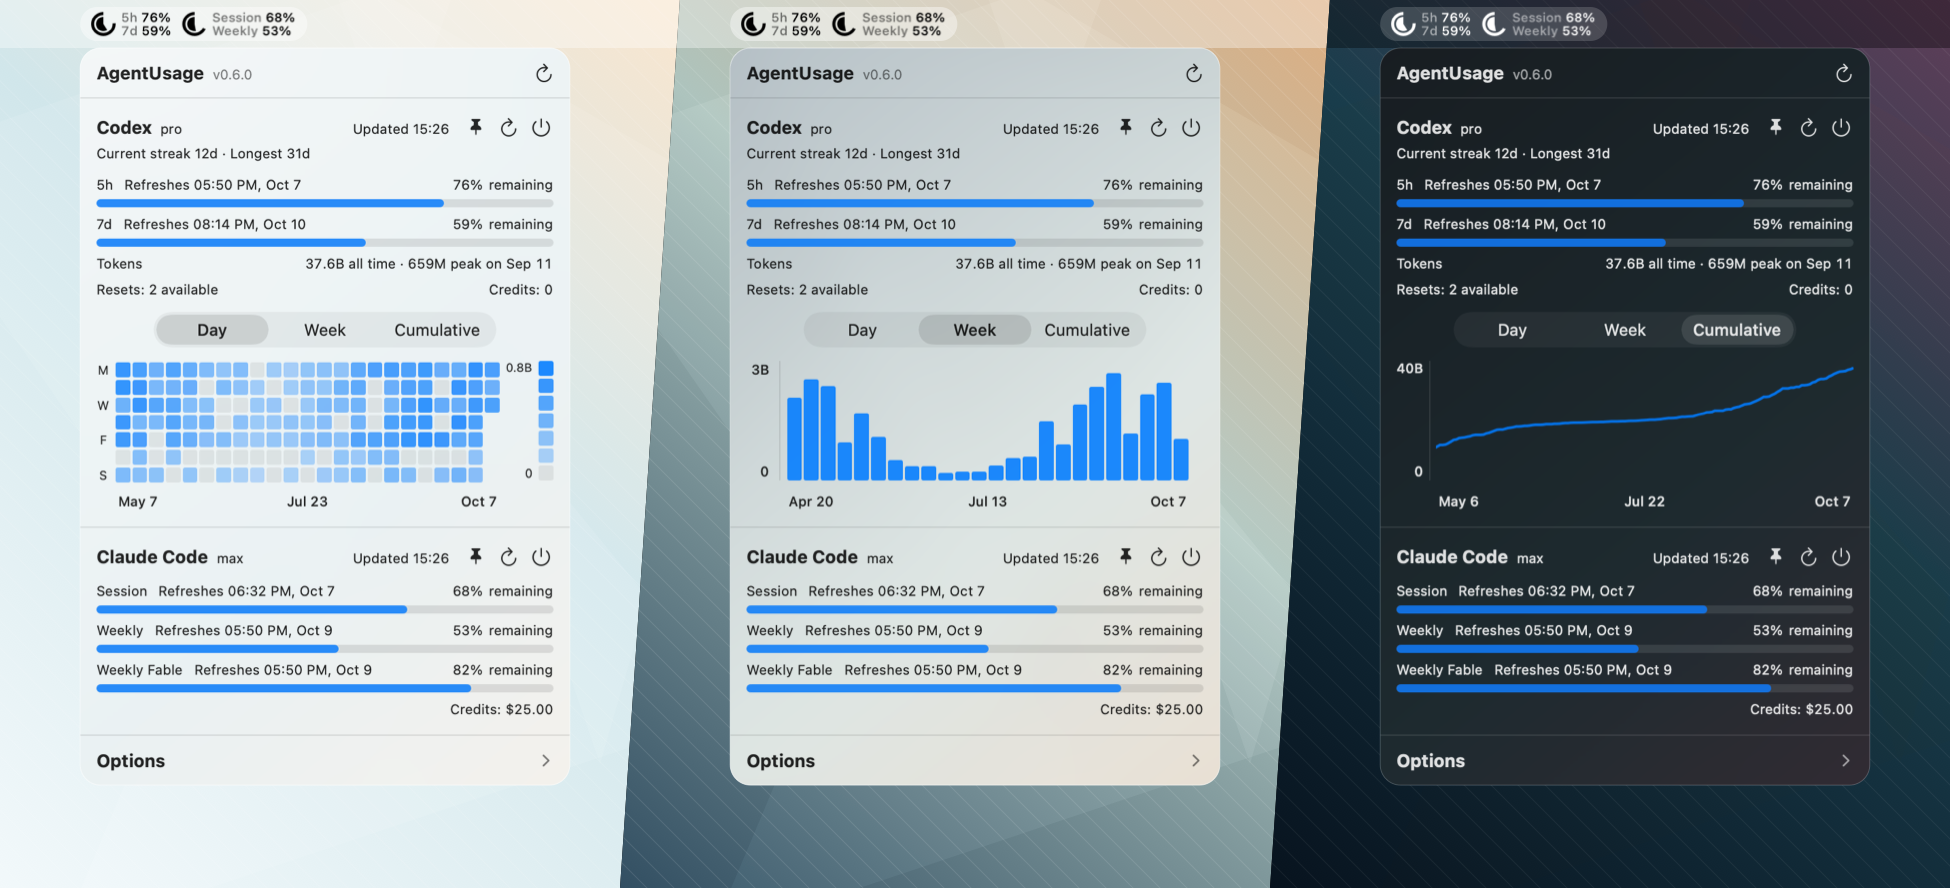
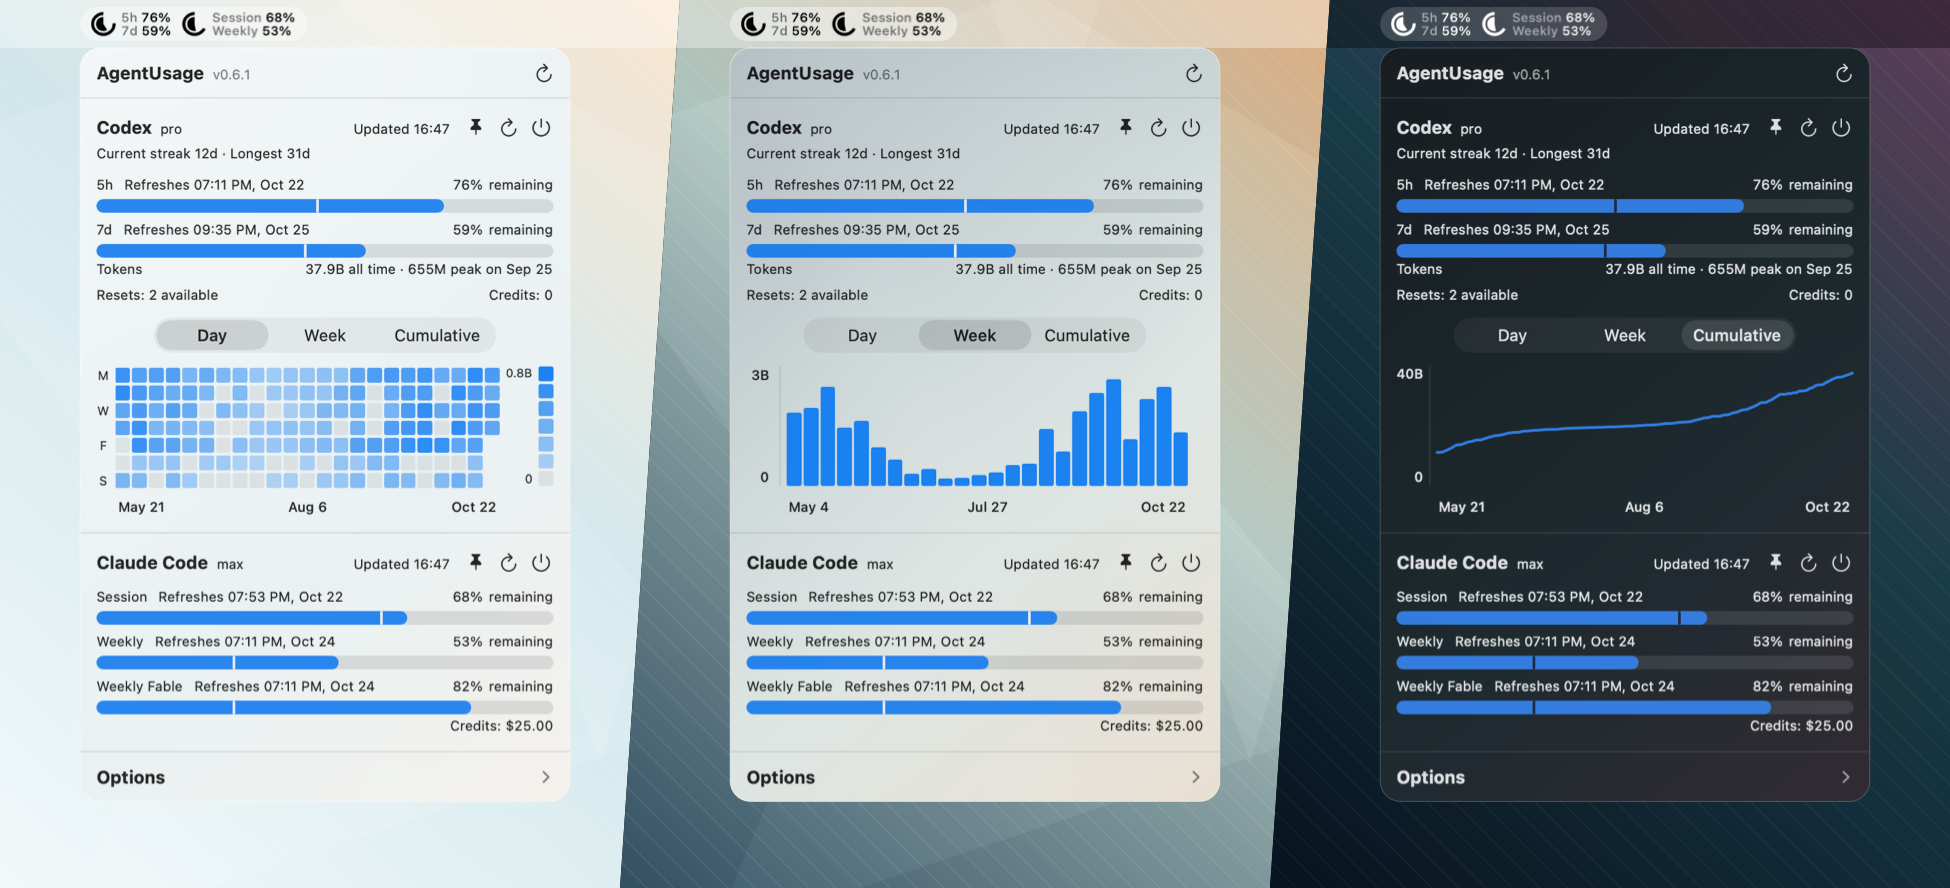
Release AgentUsage 0.6.1

diff --git a/Docs/releases/v0.6.1.md b/Docs/releases/v0.6.1.md
@@ -1,0 +1,7 @@
+# AgentUsage 0.6.1
+
+AgentUsage shows whether you are using limits faster or slower than their windows allow.
+
+- Marks pace on every usage bar: a tick at the share of the limit's window still to run. Remaining usage that reaches past it is under pace; falling short of it is over.
+- Keeps every accent readable on the popover. Light mode deepens pale accents, including a light macOS accent, so bars and switches stay clear on any wallpaper.
+- Adds space between one usage bar and the next limit's label.
